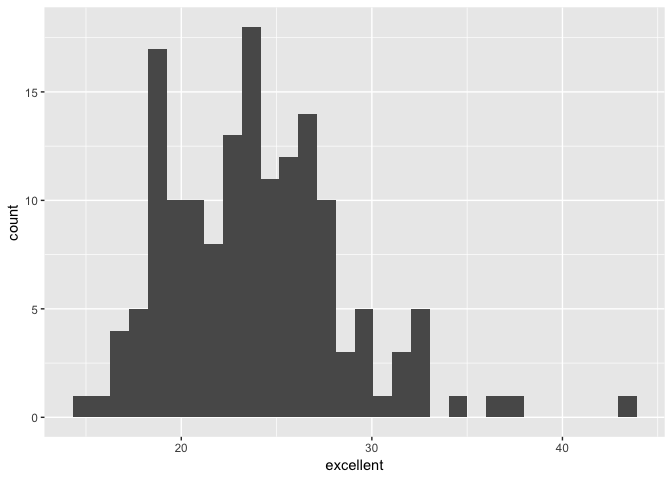
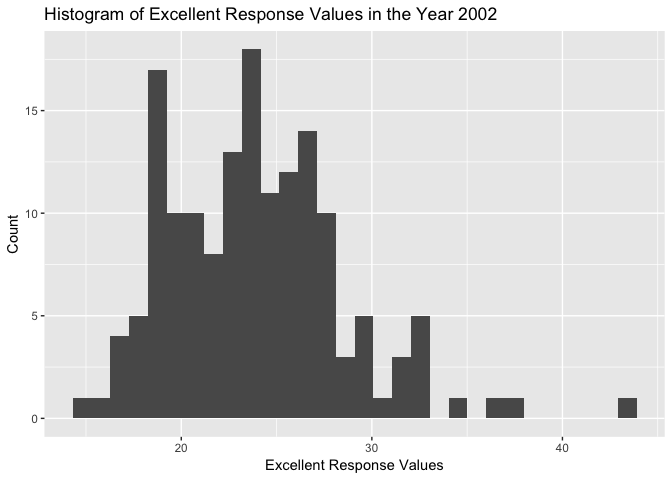
edit graphs

diff --git a/p8105_hw2_yw3236.md b/p8105_hw2_yw3236.md
@@ -165,7 +165,8 @@ trash_data
 ``` r
 prec_17 =
   readxl::read_excel("./HealthyHarborWaterWheelTotals2018-7-28.xlsx", sheet = 4, range = cellranger::cell_cols("A:B")) %>% 
-  janitor::clean_names() 
+  janitor::clean_names() %>% 
+  dplyr::filter(., !is.na(precipitation_in))
 
 names(prec_17) = as.matrix(prec_17[1, ])
 prec_17 = prec_17[-1, ]
@@ -179,7 +180,7 @@ prec_17_new = prec_17 %>%
 prec_17_new
 ```
 
-    ## # A tibble: 13 x 3
+    ## # A tibble: 12 x 3
     ##    month total year 
     ##    <int> <dbl> <chr>
     ##  1     1  2.34 2017 
@@ -193,13 +194,13 @@ prec_17_new
     ##  9     9  1.95 2017 
     ## 10    10  0    2017 
     ## 11    11  0.11 2017 
-    ## 12    12  0.94 2017 
-    ## 13    NA 32.9  2017
+    ## 12    12  0.94 2017
 
 ``` r
 prec_16 =
   readxl::read_excel("./HealthyHarborWaterWheelTotals2018-7-28.xlsx", sheet = 5, range = cellranger::cell_cols("A:B")) %>% 
-  janitor::clean_names() 
+  janitor::clean_names() %>% 
+  dplyr::filter(., !is.na(precipitation_in))
 
 names(prec_16) = as.matrix(prec_16[1, ])
 prec_16 = prec_16[-1, ]
@@ -213,7 +214,7 @@ prec_16_new = prec_16 %>%
 prec_16_new
 ```
 
-    ## # A tibble: 13 x 3
+    ## # A tibble: 12 x 3
     ##    month total year 
     ##    <int> <dbl> <chr>
     ##  1     1  3.23 2016 
@@ -227,8 +228,7 @@ prec_16_new
     ##  9     9  4.53 2016 
     ## 10    10  0.62 2016 
     ## 11    11  1.47 2016 
-    ## 12    12  2.32 2016 
-    ## 13    NA 39.9  2016
+    ## 12    12  2.32 2016
 
 -   Combine datasets and convert month to a character variable.
 
@@ -237,7 +237,7 @@ prec = left_join(prec_16_new, prec_17_new, by = "month")
 prec
 ```
 
-    ## # A tibble: 13 x 5
+    ## # A tibble: 12 x 5
     ##    month total.x year.x total.y year.y
     ##    <int>   <dbl> <chr>    <dbl> <chr> 
     ##  1     1    3.23 2016      2.34 2017  
@@ -251,8 +251,7 @@ prec
     ##  9     9    4.53 2016      1.95 2017  
     ## 10    10    0.62 2016      0    2017  
     ## 11    11    1.47 2016      0.11 2017  
-    ## 12    12    2.32 2016      0.94 2017  
-    ## 13    NA   39.9  2016     32.9  2017
+    ## 12    12    2.32 2016      0.94 2017
 
 ``` r
 prec_combine = prec %>%
@@ -266,7 +265,7 @@ prec_combine = prec %>%
 prec_combine
 ```
 
-    ## # A tibble: 13 x 3
+    ## # A tibble: 12 x 3
     ##    month total_2016 total_2017
     ##    <chr>      <dbl>      <dbl>
     ##  1 Jan         3.23       2.34
@@ -281,28 +280,27 @@ prec_combine
     ## 10 Oct         0.62       0   
     ## 11 Nov         1.47       0.11
     ## 12 Dec         2.32       0.94
-    ## 13 <NA>       39.9       32.9
 
 ### A paragraph about these data
 
 ``` r
-nrow(prec_17_new)
+nrow(trash_data)
 ```
 
-    ## [1] 13
+    ## [1] 285
 
 ``` r
-nrow(prec_16_new)
+nrow(prec_combine)
 ```
 
-    ## [1] 13
+    ## [1] 12
 
 ``` r
 trash_data_16 = trash_data %>% 
   dplyr::filter(., year == '2016')
 ```
 
-There are 13 observations in 2017 precipitation dataset. There are 13 observations in 2016 precipitation dataset. The key variable is `total`, which precipitation total for each month. The total precipitation in 2017 is 32.93. The median number of sports balls in a dumpster in 2016 is 26.
+There are 285 observations in resulting Mr.Trash Wheel dataset. There are 12 observations in resulting combination of 2016 and 2017 precipitation dataset. The key variable is `total`, which precipitation total for each month. The total precipitation in 2017 is 32.93. The median number of sports balls in a dumpster in 2016 is 26.
 
 Problem 3
 =========
@@ -442,7 +440,12 @@ The median of "Excellent" is 23.6.
 -   Make a histogram of “Excellent” response values in the year 2002.
 
 ``` r
-ggplot(formated_brfss_smart2010_2002, aes(x = excellent)) + geom_histogram()
+ggplot(formated_brfss_smart2010_2002, aes(x = excellent)) + geom_histogram() +
+  labs(
+    title = "Histogram of Excellent Response Values in the Year 2002",
+    x = "Excellent Response Values",
+    y = "Count"
+  )
 ```
 
     ## `stat_bin()` using `bins = 30`. Pick better value with `binwidth`.
@@ -455,9 +458,14 @@ ggplot(formated_brfss_smart2010_2002, aes(x = excellent)) + geom_histogram()
 
 ``` r
 new_ny_queen = formated_brfss_smart2010 %>%
-  dplyr::filter(., county == 'NY - New York County' | county == 'NY - Queens County')
+  dplyr::filter(., county == 'NY - New York County' | county == 'NY - Queens County') 
 
-ggplot(new_ny_queen, aes(x = year, y = excellent)) + geom_point(aes(color = county))
+ggplot(new_ny_queen, aes(x = year, y = excellent)) + geom_point(aes(color = county)) +
+  labs(
+    title = "Proportion of Excellent Response in New York County and Queens County",
+    x = "Year",
+    y = "Proportion of Excellent Response Values (%)"
+  )
 ```
 
 ![](p8105_hw2_yw3236_files/figure-markdown_github/unnamed-chunk-18-1.png)
